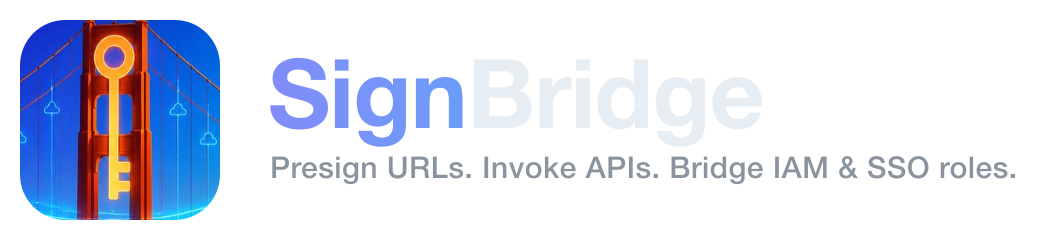
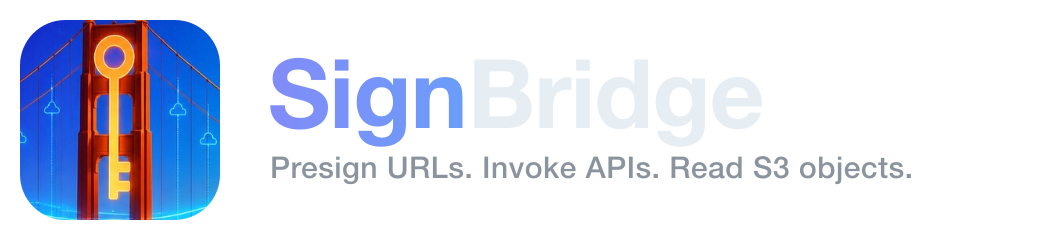
Tagline: 'Read S3 objects' instead of 'Bridge IAM & SSO roles'; highlight the active nav item
The old third clause predated S3 World and Sandbox. Regenerated the brand assets,
since the wordmarks carry the tagline.

Navbar: the tagline is bold and a size up, nav links are heavier and brighter
(Bootstrap's dark variant draws them at 55% white, which reads as disabled), and
the current page is a NavLink so it gets an underline -- previously nothing said
which page you were on.

Changed region(s): [[0.6226, 0.6417, 0.9651, 0.7583]]

diff --git a/frontend/src/App.jsx b/frontend/src/App.jsx
@@ -1,5 +1,5 @@
 import React, { Suspense, lazy, useEffect, useState } from 'react'
-import { BrowserRouter as Router, Link, Navigate, Route, Routes } from 'react-router-dom'
+import { BrowserRouter as Router, Link, NavLink, Navigate, Route, Routes } from 'react-router-dom'
 import { Container, Nav, Navbar } from 'react-bootstrap'
 
 import { appPath, TAGLINE } from './appConfig'
@@ -92,9 +92,12 @@ function AppShell({ session, children }) {
           <Navbar.Collapse id="presign-nav">
             <Nav className="me-auto">
               {NAV_ITEMS.map(item => (
+                // NavLink, not Link: it adds the `active` class on a match, which
+                // is the only thing marking which page you are on. Not `end`, so
+                // a nested route (/s3world/object) keeps its parent highlighted.
                 <Nav.Link
                   key={item.path}
-                  as={Link}
+                  as={NavLink}
                   to={appPath(item.path)}
                   onMouseEnter={() => prefetch(item.load)}
                   onFocus={() => prefetch(item.load)}

diff --git a/frontend/src/app.css b/frontend/src/app.css
@@ -10,10 +10,30 @@ pre {
 /* The tagline beside the navbar brand. Hidden below xl by Bootstrap classes on
    the element itself — at laptop widths the nav items need the room. */
 .navbar-tagline {
-  border-left: 1px solid rgba(255, 255, 255, 0.18);
-  color: rgba(255, 255, 255, 0.6);
-  font-size: 0.8125rem;
+  border-left: 1px solid rgba(255, 255, 255, 0.22);
+  color: rgba(255, 255, 255, 0.88);
+  font-size: 0.9375rem;
+  font-weight: 600;
   letter-spacing: 0.01em;
   margin-left: 0.75rem;
   padding-left: 0.75rem;
+}
+
+/* Navbar links. Bootstrap's dark variant draws them at 55% white, which reads as
+   disabled, and it marks the current page with a colour shift too small to see —
+   so: heavier, brighter, and an underline on the active one. */
+.navbar .navbar-nav .nav-link {
+  border-bottom: 2px solid transparent;
+  color: rgba(255, 255, 255, 0.82);
+  font-weight: 600;
+}
+
+.navbar .navbar-nav .nav-link:hover,
+.navbar .navbar-nav .nav-link:focus {
+  color: #fff;
+}
+
+.navbar .navbar-nav .nav-link.active {
+  border-bottom-color: #6ea8fe;
+  color: #fff;
 }

diff --git a/frontend/src/appConfig.js b/frontend/src/appConfig.js
@@ -7,7 +7,7 @@ export const DEFAULT_EMAIL = 'signbridgeuser@localhost'
 
 // Mirrors [app] tagline in config.properties. Rendered in the navbar and as the
 // About page's subtitle, so it lives here rather than in either component.
-export const TAGLINE = 'Presign URLs. Invoke APIs. Bridge IAM & SSO roles.'
+export const TAGLINE = 'Presign URLs. Invoke APIs. Read S3 objects.'
 
 export const defaultSession = {
   userName: DEFAULT_USER_NAME,

diff --git a/lib/appConfig.js b/lib/appConfig.js
@@ -26,7 +26,7 @@ function getDisplayName() {
 }
 
 function getTagline() {
-    return props.get('app.tagline') || 'Presign URLs. Invoke APIs. Bridge IAM & SSO roles.';
+    return props.get('app.tagline') || 'Presign URLs. Invoke APIs. Read S3 objects.';
 }
 
 function getEngineName() {

diff --git a/CLAUDE.md b/CLAUDE.md
@@ -6,7 +6,7 @@ Guidance for AI assistants working in this repository. These instructions descri
 
 **SignBridge** is a self-hosted tool for **presigning and invoking AWS and generic REST APIs**. It performs AWS SigV4 signing across four credential sources — IAM user keys, AWS SSO / IAM Identity Center roles, an EC2 instance's own attached role (read over SSH + IMDSv2), and EKS IRSA service-account roles — produces presigned URLs (including for non-S3 AWS APIs), and can invoke endpoints directly. It also supports non-AWS REST calls (Basic auth, Bearer token, and unsigned "generic" requests). **Sandbox mode** adds a third way in: write Python/JS/TS/Java in an in-app IDE and run it against the same profiles in a throwaway container. **S3 World** adds a fourth: a bucket browser that can *show you what is inside an object* — parquet as a table, xlsx sheets, gzipped logs as text, archive listings — with a recursive, forgiving search the console does not have.
 
-- **Tagline**: *Presign URLs. Invoke APIs. Bridge IAM & SSO roles.*
+- **Tagline**: *Presign URLs. Invoke APIs. Read S3 objects.*
 - **Signing engine name**: **SignBridge** (the `lib/` code).
 - **Positioning**: think "Postman for AWS SigV4" — native SSO/IAM Identity Center signing, self-hostable/air-gapped, with MCP/IDE integration and optional AI chat.
 

diff --git a/README.md b/README.md
@@ -4,7 +4,7 @@
        those same SVGs, so they cannot drift. -->
   <picture>
     <source media="(prefers-color-scheme: dark)" srcset="assets/signbridge-wordmark-dark.png" />
-    <img src="assets/signbridge-wordmark.png" alt="SignBridge — Presign URLs. Invoke APIs. Bridge IAM & SSO roles." width="560" />
+    <img src="assets/signbridge-wordmark.png" alt="SignBridge — Presign URLs. Invoke APIs. Read S3 objects." width="560" />
   </picture>
 </p>
 
